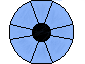
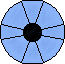
added damage detection for creeps

diff --git a/core/src/com/finalstand/game/sprites/creeps/Creep.java b/core/src/com/finalstand/game/sprites/creeps/Creep.java
@@ -1,5 +1,6 @@
 package com.finalstand.game.sprites.creeps;
 
+import com.badlogic.gdx.Gdx;
 import com.badlogic.gdx.graphics.Texture;
 import com.badlogic.gdx.graphics.g2d.Sprite;
 import com.badlogic.gdx.graphics.g2d.SpriteBatch;
@@ -25,14 +26,6 @@ public class Creep extends Sprite{
     protected Sprite sprite;
 
     protected Vector2 position;
-
-    public int getScore() {
-        return score;
-    }
-
-    public void setScore(int score) {
-        this.score = score;
-    }
 
     protected int score;
 
@@ -65,78 +58,8 @@ public class Creep extends Sprite{
     protected boolean isDead = false;
     protected boolean isNeeded = false;
 
-    public boolean isNeeded() {
-        return isNeeded;
-    }
-
-    public void setIsNeeded(boolean isNeeded) {
-        this.isNeeded = isNeeded;
-    }
-
-    public boolean isDead() {
-        return isDead;
-    }
-
-    public void setIsDead(boolean isDead) {
-        this.isDead = isDead;
-    }
-
-    public int getSlowedTimer() {
-        return slowedTimer;
-    }
-
-    public void setSlowedTimer(int getSlowedTimer) {
-        this.slowedTimer = getSlowedTimer;
-    }
-    protected boolean DOTActive;
-    protected float DOTTimer;
-    protected int DOTDamage;
-
-    public int getBombTimer() {
-        return bombTimer;
-    }
-
-    public void setBombTimer(int bombTimer) {
-        this.bombTimer = bombTimer;
-    }
-
-    public boolean isBombTriggered() {
-        return bombTriggered;
-    }
-
-    public void setBombTriggered(boolean bombTriggered) {
-        this.bombTriggered = bombTriggered;
-    }
-
-    public float getInitSpeed() {
-        return initSpeed;
-    }
-
-    public void setInitSpeed(float initSpeed) {
-        this.initSpeed = initSpeed;
-    }
-
-    public int getTimer() {
-        return timer;
-    }
-
-    public void setTimer(int timer) {
-        this.timer = timer;
-    }
-
-    public boolean isSlowed() {
-        return slowed;
-    }
-
-    public void setSlowed(boolean slowed) {
-        this.slowed = slowed;
-    }
-
-    public void setDOTActive(int time, int DOTDamage) {
-        this.DOTActive = true;
-        DOTTimer = time;
-        this.DOTDamage = DOTDamage;
-    }
+    protected boolean damaged;
+    protected boolean changed;
 
     public Creep(World world) {
         this.world = world;
@@ -168,6 +91,7 @@ public class Creep extends Sprite{
         bombTimer = 120;
         DOTActive = false;
         DOTTimer = 0;
+        damaged = false;
     }
 
     /**
@@ -303,6 +227,8 @@ public class Creep extends Sprite{
         direction.scl(speed);
         this.b2Body.setLinearVelocity(direction);
 
+        if(isDamaged()) changeSprite("creeps/basiccreepdmg.png");
+
         //if a damage over time effect is present on the creep, damage it
         if(DOTActive)
         {
@@ -320,21 +246,11 @@ public class Creep extends Sprite{
         }
     }
 
+    public void changeSprite(String filename) {
+
+    }
+
 //    public void render(SpriteBatch batch) {
-//
-//    }
-
-    public void setMovement(int index) {
-        movement[index] = true;
-    }
-
-    public void unsetMovement(int index) {
-        movement[index] = false;
-    }
-
-    public void setWaypointHit() { waypointHit++; }
-
-    public int getWaypointHit() { return waypointHit; }
 
     public void checkDir() {
         if(getWaypointHit() == dir.size) {
@@ -364,6 +280,9 @@ public class Creep extends Sprite{
         }
     }
 
+    void dispose() {
+        sprite.getTexture().dispose();
+    }
 
     public void reachedEnd() {
 //        PlayScreen.creeps.remove(this);
@@ -371,12 +290,101 @@ public class Creep extends Sprite{
         FinalStand.setHealth(FinalStand.getHealth() - 1);
     }
 
-    public Body getB2Body() {
-        return b2Body;
+    public int getScore() {
+        return score;
     }
 
-    void dispose() {
-        sprite.getTexture().dispose();
+    public void setScore(int score) {
+        this.score = score;
+    }
+
+    public boolean isNeeded() {
+        return isNeeded;
+    }
+
+    public void setIsNeeded(boolean isNeeded) {
+        this.isNeeded = isNeeded;
+    }
+
+    public boolean isDead() {
+        return isDead;
+    }
+
+    public void setIsDead(boolean isDead) {
+        this.isDead = isDead;
+    }
+
+    public int getSlowedTimer() {
+        return slowedTimer;
+    }
+
+    public void setSlowedTimer(int getSlowedTimer) {
+        this.slowedTimer = getSlowedTimer;
+    }
+    protected boolean DOTActive;
+    protected float DOTTimer;
+    protected int DOTDamage;
+
+    public int getBombTimer() {
+        return bombTimer;
+    }
+
+    public void setBombTimer(int bombTimer) {
+        this.bombTimer = bombTimer;
+    }
+
+    public boolean isBombTriggered() {
+        return bombTriggered;
+    }
+
+    public void setBombTriggered(boolean bombTriggered) {
+        this.bombTriggered = bombTriggered;
+    }
+
+    public float getInitSpeed() {
+        return initSpeed;
+    }
+
+    public void setInitSpeed(float initSpeed) {
+        this.initSpeed = initSpeed;
+    }
+
+    public int getTimer() {
+        return timer;
+    }
+
+    public void setTimer(int timer) {
+        this.timer = timer;
+    }
+
+    public boolean isSlowed() {
+        return slowed;
+    }
+
+    public void setSlowed(boolean slowed) {
+        this.slowed = slowed;
+    }
+
+    public void setDOTActive(int time, int DOTDamage) {
+        this.DOTActive = true;
+        DOTTimer = time;
+        this.DOTDamage = DOTDamage;
+    }
+
+    public void setMovement(int index) {
+        movement[index] = true;
+    }
+
+    public void unsetMovement(int index) {
+        movement[index] = false;
+    }
+
+    public void setWaypointHit() { waypointHit++; }
+
+    public int getWaypointHit() { return waypointHit; }
+
+    public Body getB2Body() {
+        return b2Body;
     }
 
     public Sprite getSprite() {
@@ -398,4 +406,9 @@ public class Creep extends Sprite{
     public void setHealth(int health) {
         this.health = health;
     }
+
+    public void setDamaged(boolean damaged) { this.damaged = damaged; }
+    public boolean isDamaged() { return damaged; }
+    public void setChanged(boolean changed) { this.changed = changed; }
+    public boolean isChanged() { return changed;}
 }

diff --git a/core/src/com/finalstand/game/sprites/creeps/BasicCreep.java b/core/src/com/finalstand/game/sprites/creeps/BasicCreep.java
@@ -23,6 +23,12 @@ public class BasicCreep extends Creep {
         score = 10;
     }
 
+    public void changeSprite( String filename) {
+        sprite.getTexture().dispose();
+        sprite.setTexture(new Texture(Gdx.files.internal(filename)));
+        setDamaged(false);
+    }
+
     public void dispose() {
         sprite.getTexture().dispose();
     }

diff --git a/core/src/com/finalstand/game/sprites/projectiles/Bullet.java b/core/src/com/finalstand/game/sprites/projectiles/Bullet.java
@@ -26,6 +26,7 @@ public class Bullet extends Projectile{
     {
         //damage creep
         creep.setHealth(creep.getHealth() - damage);
+        creep.setDamaged(true);
         //remove projectile
         isDead = true;
     }
